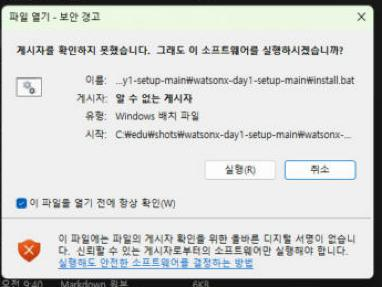
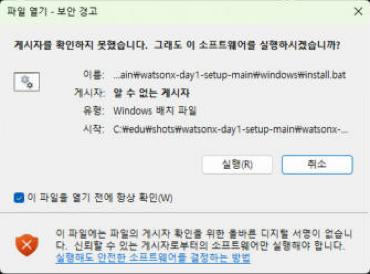
docs: 새 폴더 구조에 맞춰 화면 캡처 교체 (windows/mac 폴더, 보안 경고 경로)

Changed region(s): [[0.0, 0.0, 1.0, 1.0], [0.5649, 0.5547, 0.7135, 0.6423]]

diff --git a/docs/01_GitHub에서_받기.md b/docs/01_GitHub에서_받기.md
@@ -19,7 +19,7 @@
 ## 방법 A — Download ZIP (기본)
 
 1. 저장소 페이지를 엽니다: https://github.com/sgustjd2/watsonx-day1-setup
-2. 초록색 **Code** 버튼 → **Download ZIP**. (`watsonx-day1-setup-main.zip`, 약 20KB)
+2. 초록색 **Code** 버튼 → **Download ZIP**. (`watsonx-day1-setup-main.zip`, 약 0.3MB)
 
 ![Code → Download ZIP](images/01_code_download_zip.png)
 3. **짧은 경로**에 압축을 풉니다. Windows는 `C:\edu`, Mac은 홈 폴더의 `edu`(`~/edu`)를 권합니다. 다운로드 폴더나 OneDrive 안은 경로가 길어 설치가 실패할 수 있습니다(약 100자 이상).
@@ -27,9 +27,8 @@
    - 이때 `watsonx-day1-setup-main` 폴더가 **두 겹**으로 생기는 것이 정상입니다(실제 화면에서 확인). **그 안에 `windows` 폴더와 `mac` 폴더가 보이는 안쪽 폴더**가 실습 폴더입니다.
 
    ![폴더 안에 폴더](images/02_zip_folder_in_folder.jpg)
-   ![안쪽 폴더](images/03_inner_folder_install_bat.jpg)
-
-   > 위 화면과 아래 일부 화면은 `install.bat`이 맨 위 폴더에 있던 **이전 구성**에서 찍었습니다. 동작은 같고, 지금은 `windows` 폴더 안에 `install.bat`이 있습니다.
+   ![안쪽 폴더: windows, mac 폴더](images/03_inner_folder.jpg)
+   ![windows 폴더 안: install.bat](images/03b_windows_folder.jpg)
 4. (Windows) 인터넷에서 받은 파일 경고: ZIP을 우클릭 → **속성** → 아래쪽 **차단 해제** 체크 → 확인한 뒤 압축을 풀면 경고가 줄어듭니다. 이미 풀었다면 PowerShell에서
    ```powershell
    Get-ChildItem C:\edu -Recurse | Unblock-File
